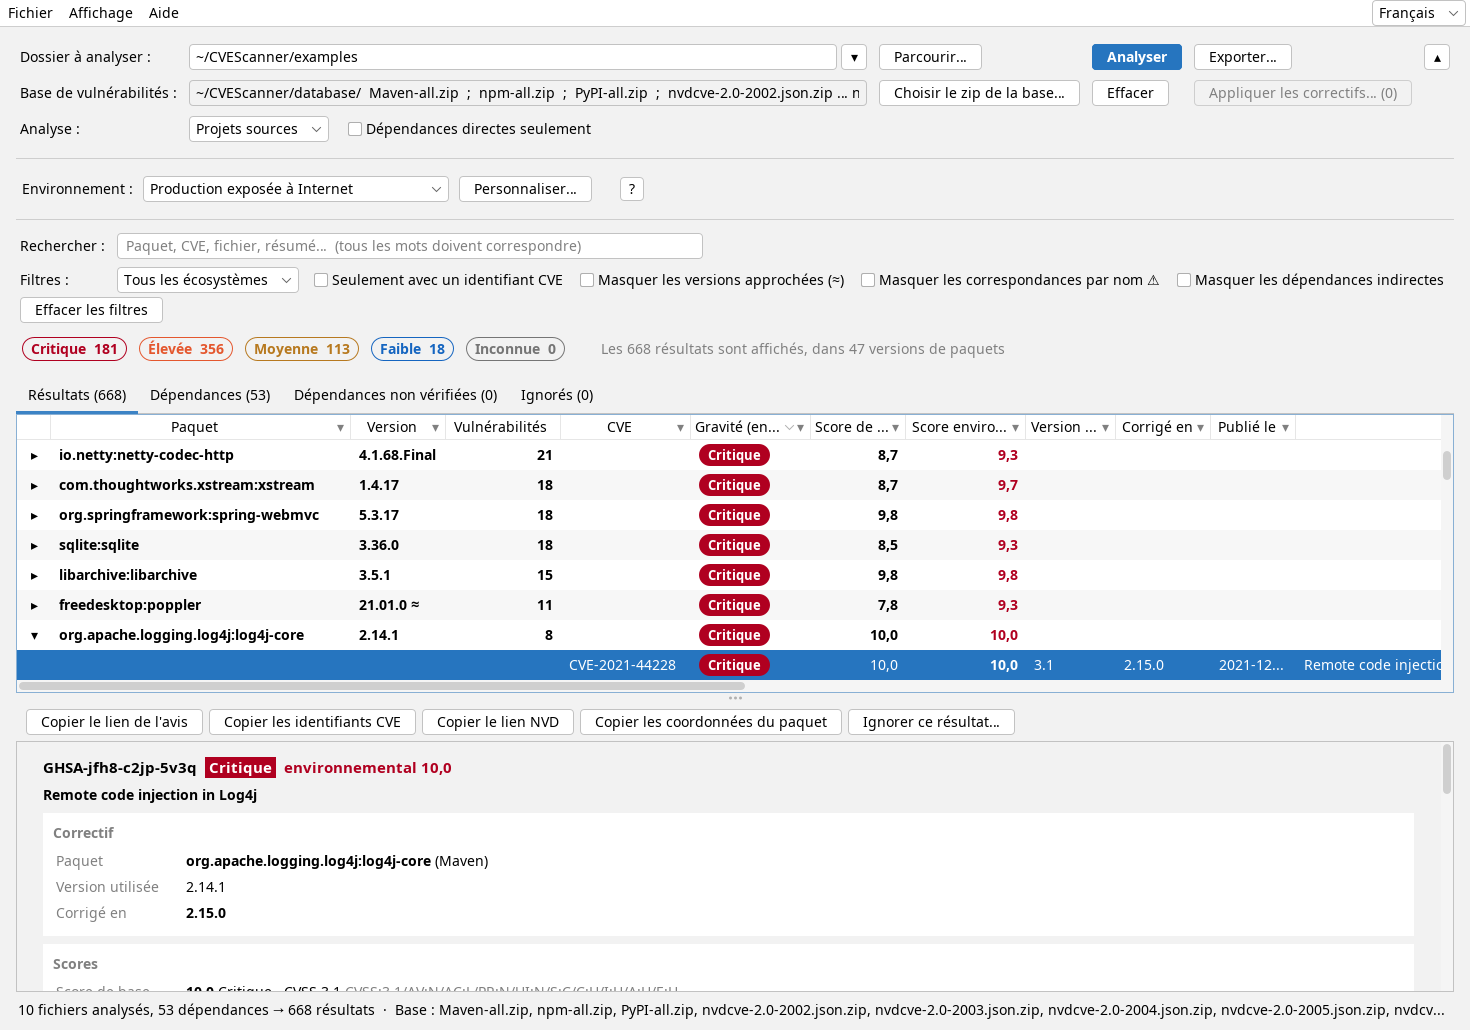
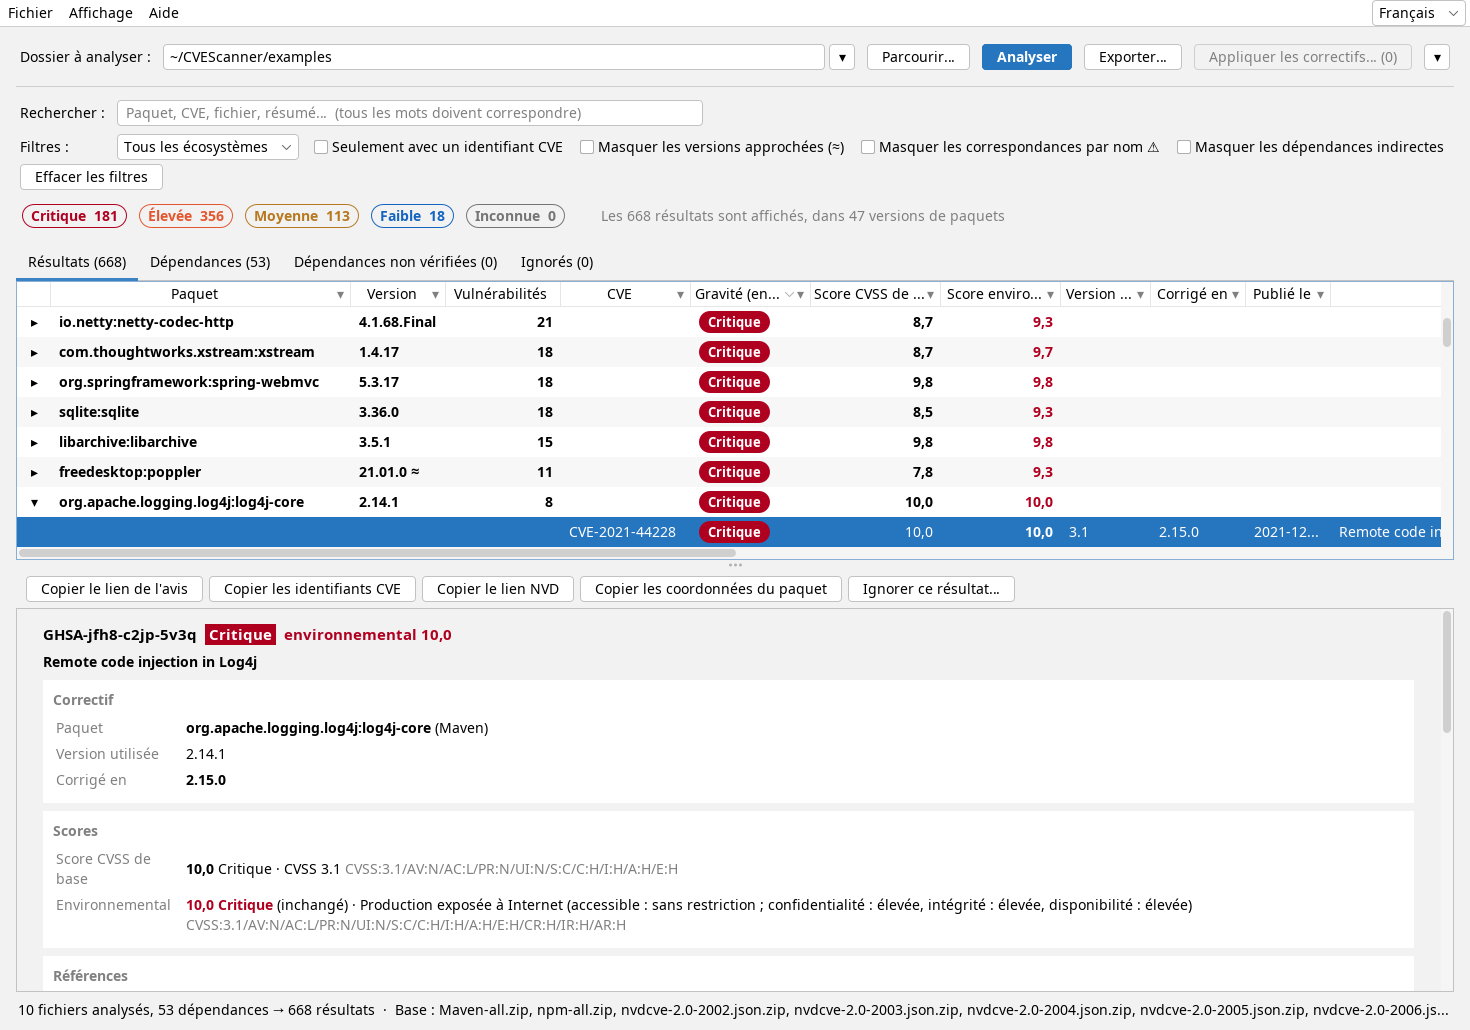
README pictures with the settings collapsed, as the window shows them after a scan
ScreenshotsTest keeps the panel collapsed and shows the reader's folder
without the red outline of a folder missing on the build machine.

Claude-Session: https://claude.ai/code/session_01SJHphkdyQqb6mk3bgEvXAA

diff --git a/cvescanner-app/src/test/java/org/jtools/cvescanner/ScreenshotsTest.java b/cvescanner-app/src/test/java/org/jtools/cvescanner/ScreenshotsTest.java
@@ -81,15 +81,27 @@ class ScreenshotsTest {
         });
     }
 
+    /**
+     * The folder as a reader's would be, not this machine's: the window as it is with that folder there, neither
+     * outlined in red nor Scan greyed (MainWindow.updateReady).
+     */
+    private void showFolder(String text) throws Exception {
+        show("folder", text);
+        var folder = w.named("folder", javax.swing.JTextField.class);
+        var scan = w.named("scan");
+        SwingUtilities.invokeAndWait(() -> {
+            folder.putClientProperty("JComponent.outline", null);
+            scan.setEnabled(true);
+        });
+    }
+
     private void open(I18nLanguage language, String folder, Path settingsFolder, List<String> more) throws Exception {
         var args = new ArrayList<>(List.of("-d", folder));
         args.addAll(more);
         w = WindowDriver.start(settingsFolder, args.toArray(String[]::new));
         SwingUtilities.invokeAndWait(() -> w.window.setSize(SIZE));
-        // the pictures show every setting: once the scan has collapsed them after the welcome, ▾
+        // the window as a reader sees it after the scan: the settings collapsed, the folder's row alone
         w.waitUntil("the scan's findings", () -> w.find(java.awt.Component.class, k -> "tabs".equals(k.getName())) != null);
-        w.click(w.named("collapseSettings"));
-        w.named("databases");
         if (language != I18nLanguage.ENGLISH) {
             w.choose(w.named("language", JComboBox.class), language.toString());
             w.waitUntil("the window in " + language, () -> I18n.language() == language);
@@ -106,17 +118,12 @@ class ScreenshotsTest {
             w.choose(w.named("language", JComboBox.class), language.toString());
             w.waitUntil("the window in " + language, () -> I18n.language() == language);
         }
-        show("folder", "~/CVEScanner/examples");
+        showFolder("~/CVEScanner/examples");
         show("databases", "~/CVEScanner/database/  Maven-all.zip  ;  npm-all.zip  ;  PyPI-all.zip  ;  nvdcve-2.0-2002.json.zip … "
                 + "nvdcve-2.0-2026.json.zip  ;  nvdcve-2.0-modified.json.zip");
         w.named("tryExamples");
-        // the folder shown is a reader's, not this machine's: the window as it is with that folder there
-        var folder = w.named("folder", javax.swing.JTextField.class);
-        var scans = List.of(w.named("scan"), w.named("welcomeScan"));
-        SwingUtilities.invokeAndWait(() -> {
-            folder.putClientProperty("JComponent.outline", null);
-            scans.forEach(b -> b.setEnabled(true));
-        });
+        var welcomeScan = w.named("welcomeScan");
+        SwingUtilities.invokeAndWait(() -> welcomeScan.setEnabled(true));
         w.screenshot(dir.resolve("welcome.png"));
         w.close();
         w = null;
@@ -130,9 +137,7 @@ class ScreenshotsTest {
         var more = new ArrayList<>(databases);
         more.addAll(List.of("--env", "internet"));
         open(language, ROOT.resolve("examples").toString(), Files.createDirectories(settings.resolve("examples-" + language)), more);
-        show("folder", "~/CVEScanner/examples");
-        show("databases", "~/CVEScanner/database/  Maven-all.zip  ;  npm-all.zip  ;  PyPI-all.zip  ;  nvdcve-2.0-2002.json.zip … "
-                + "nvdcve-2.0-2026.json.zip  ;  nvdcve-2.0-modified.json.zip");
+        showFolder("~/CVEScanner/examples");
         w.clickRow("log4j-core", FindingGroups.EXPAND);
         w.clickRow("CVE-2021-44228", FindingGroups.CVE);
         w.screenshot(dir.resolve("findings.png"));
@@ -174,8 +179,7 @@ class ScreenshotsTest {
         Files.copy(SAMPLES.resolve("vex/product.vex.json"), projects.resolve("product.vex.json"));
         open(language, projects.toString(), Files.createDirectories(settings.resolve("vex-" + language)),
                 List.of("--db", SAMPLES.resolve("db/advisory-database-main.zip").toString()));
-        show("folder", "~/CVEScanner/samples/projects");
-        show("databases", "~/CVEScanner/samples/db/advisory-database-main.zip");
+        showFolder("~/CVEScanner/samples/projects");
         w.clickTab(MainWindow.IGNORED_TAB);
         w.clickRow("lodash", 3);
         w.screenshot(dir.resolve("vex.png"));
